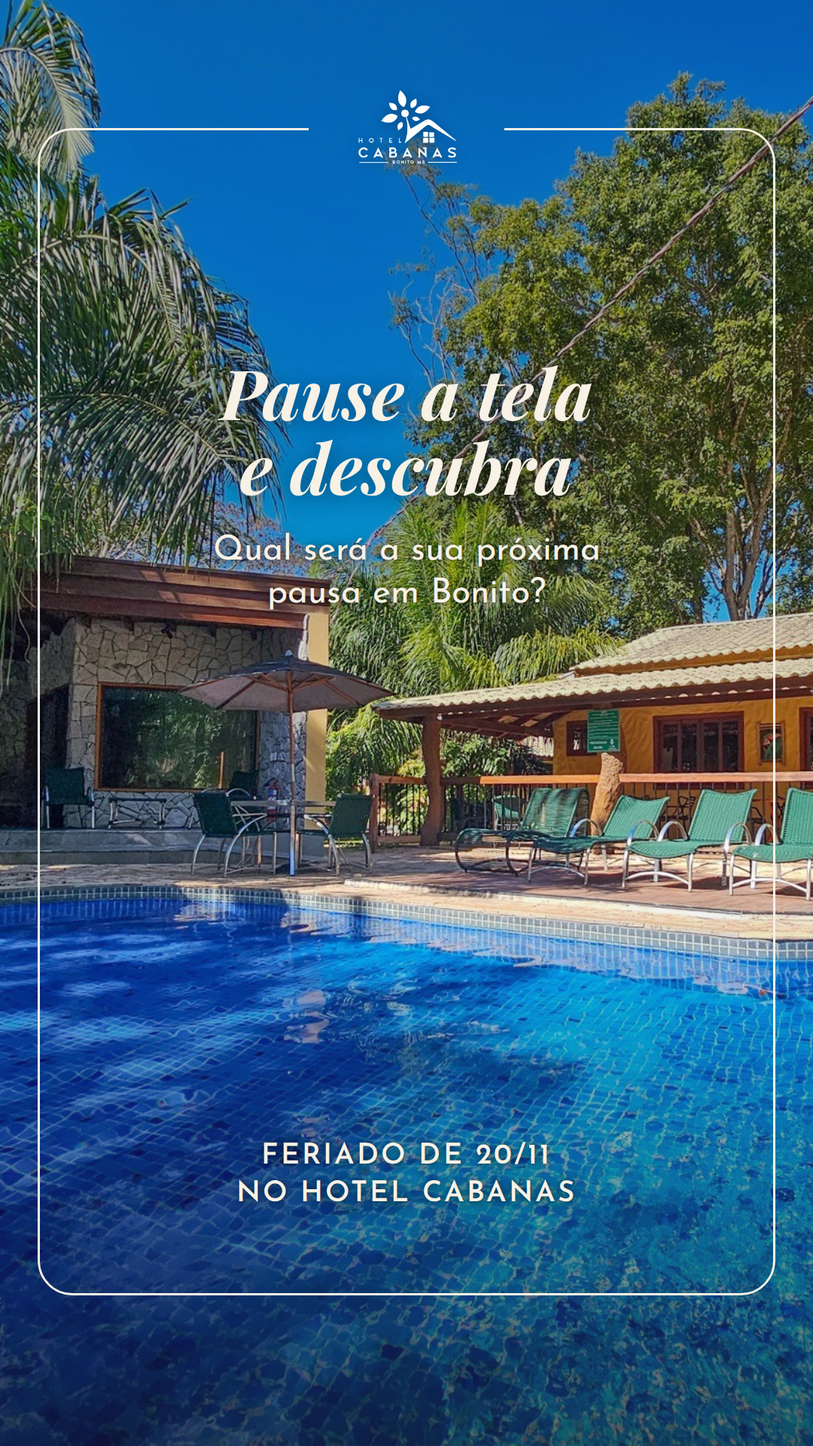
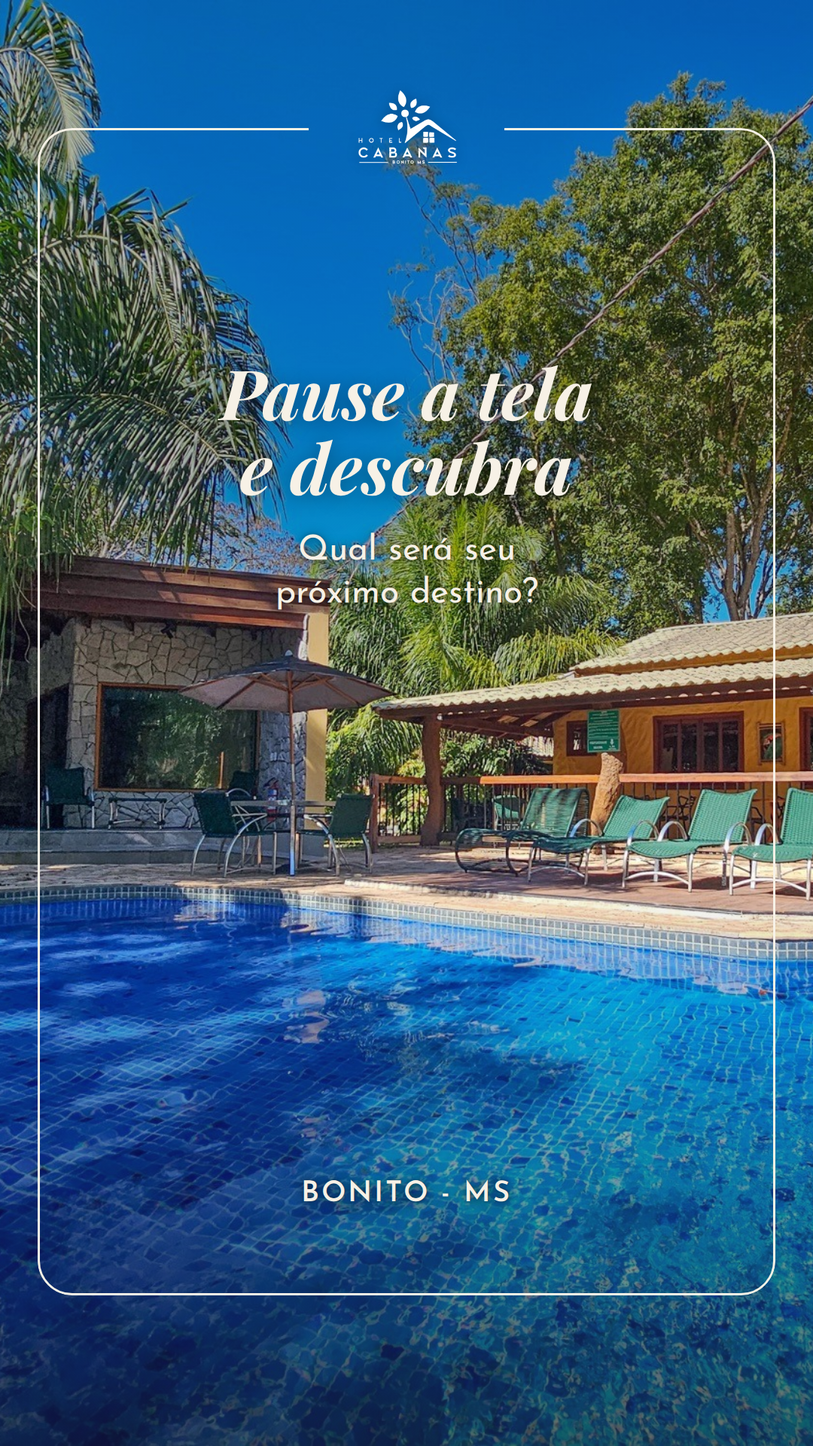
Teste 'Pause a tela': 'Qual será seu próximo destino?' e 'BONITO - MS'
Claude-Session: https://claude.ai/code/session_01GffBmxQFJnfaKwiJFV7qgT

Changed region(s): [[0.2444, 0.3438, 0.7333, 0.4375], [0.275, 0.7812, 0.7028, 0.8438]]

diff --git a/design/pecas/2026-10-instagram/TESTE-MODELO-PAUSE/PAUSE-2.html b/design/pecas/2026-10-instagram/TESTE-MODELO-PAUSE/PAUSE-2.html
@@ -25,6 +25,6 @@
   <div class="pe"></div>
   <div class="moldura"></div>
   <div class="selo"><img src="../../../../contexto/marca/logo-hotel-cabanas-branco.png" alt="Hotel Cabanas"></div>
-  <div class="texto"><h1>Pause a tela<br>e descubra</h1><p>Qual será a sua próxima<br>pausa em Bonito?</p></div>
-  <div class="etiqueta"><span>De domingo a quinta<br>na Cabana Casal</span></div>
+  <div class="texto"><h1>Pause a tela<br>e descubra</h1><p>Qual será seu<br>próximo destino?</p></div>
+  <div class="etiqueta"><span>Bonito - MS</span></div>
 </div></body></html>

diff --git a/design/pecas/2026-10-instagram/TESTE-MODELO-PAUSE/PAUSE-3.html b/design/pecas/2026-10-instagram/TESTE-MODELO-PAUSE/PAUSE-3.html
@@ -25,6 +25,6 @@
   <div class="pe"></div>
   <div class="moldura"></div>
   <div class="selo"><img src="../../../../contexto/marca/logo-hotel-cabanas-branco.png" alt="Hotel Cabanas"></div>
-  <div class="texto"><h1>Pause a tela<br>e descubra</h1><p>Qual será a sua próxima<br>pausa em Bonito?</p></div>
-  <div class="etiqueta"><span>Bonito sem pressa,<br>entre dois rios</span></div>
+  <div class="texto"><h1>Pause a tela<br>e descubra</h1><p>Qual será seu<br>próximo destino?</p></div>
+  <div class="etiqueta"><span>Bonito - MS</span></div>
 </div></body></html>

diff --git a/design/pecas/2026-10-instagram/TESTE-MODELO-PAUSE/PAUSE-1.html b/design/pecas/2026-10-instagram/TESTE-MODELO-PAUSE/PAUSE-1.html
@@ -25,6 +25,6 @@
   <div class="pe"></div>
   <div class="moldura"></div>
   <div class="selo"><img src="../../../../contexto/marca/logo-hotel-cabanas-branco.png" alt="Hotel Cabanas"></div>
-  <div class="texto"><h1>Pause a tela<br>e descubra</h1><p>Qual será a sua próxima<br>pausa em Bonito?</p></div>
-  <div class="etiqueta"><span>Feriado de 20/11<br>no Hotel Cabanas</span></div>
+  <div class="texto"><h1>Pause a tela<br>e descubra</h1><p>Qual será seu<br>próximo destino?</p></div>
+  <div class="etiqueta"><span>Bonito - MS</span></div>
 </div></body></html>
